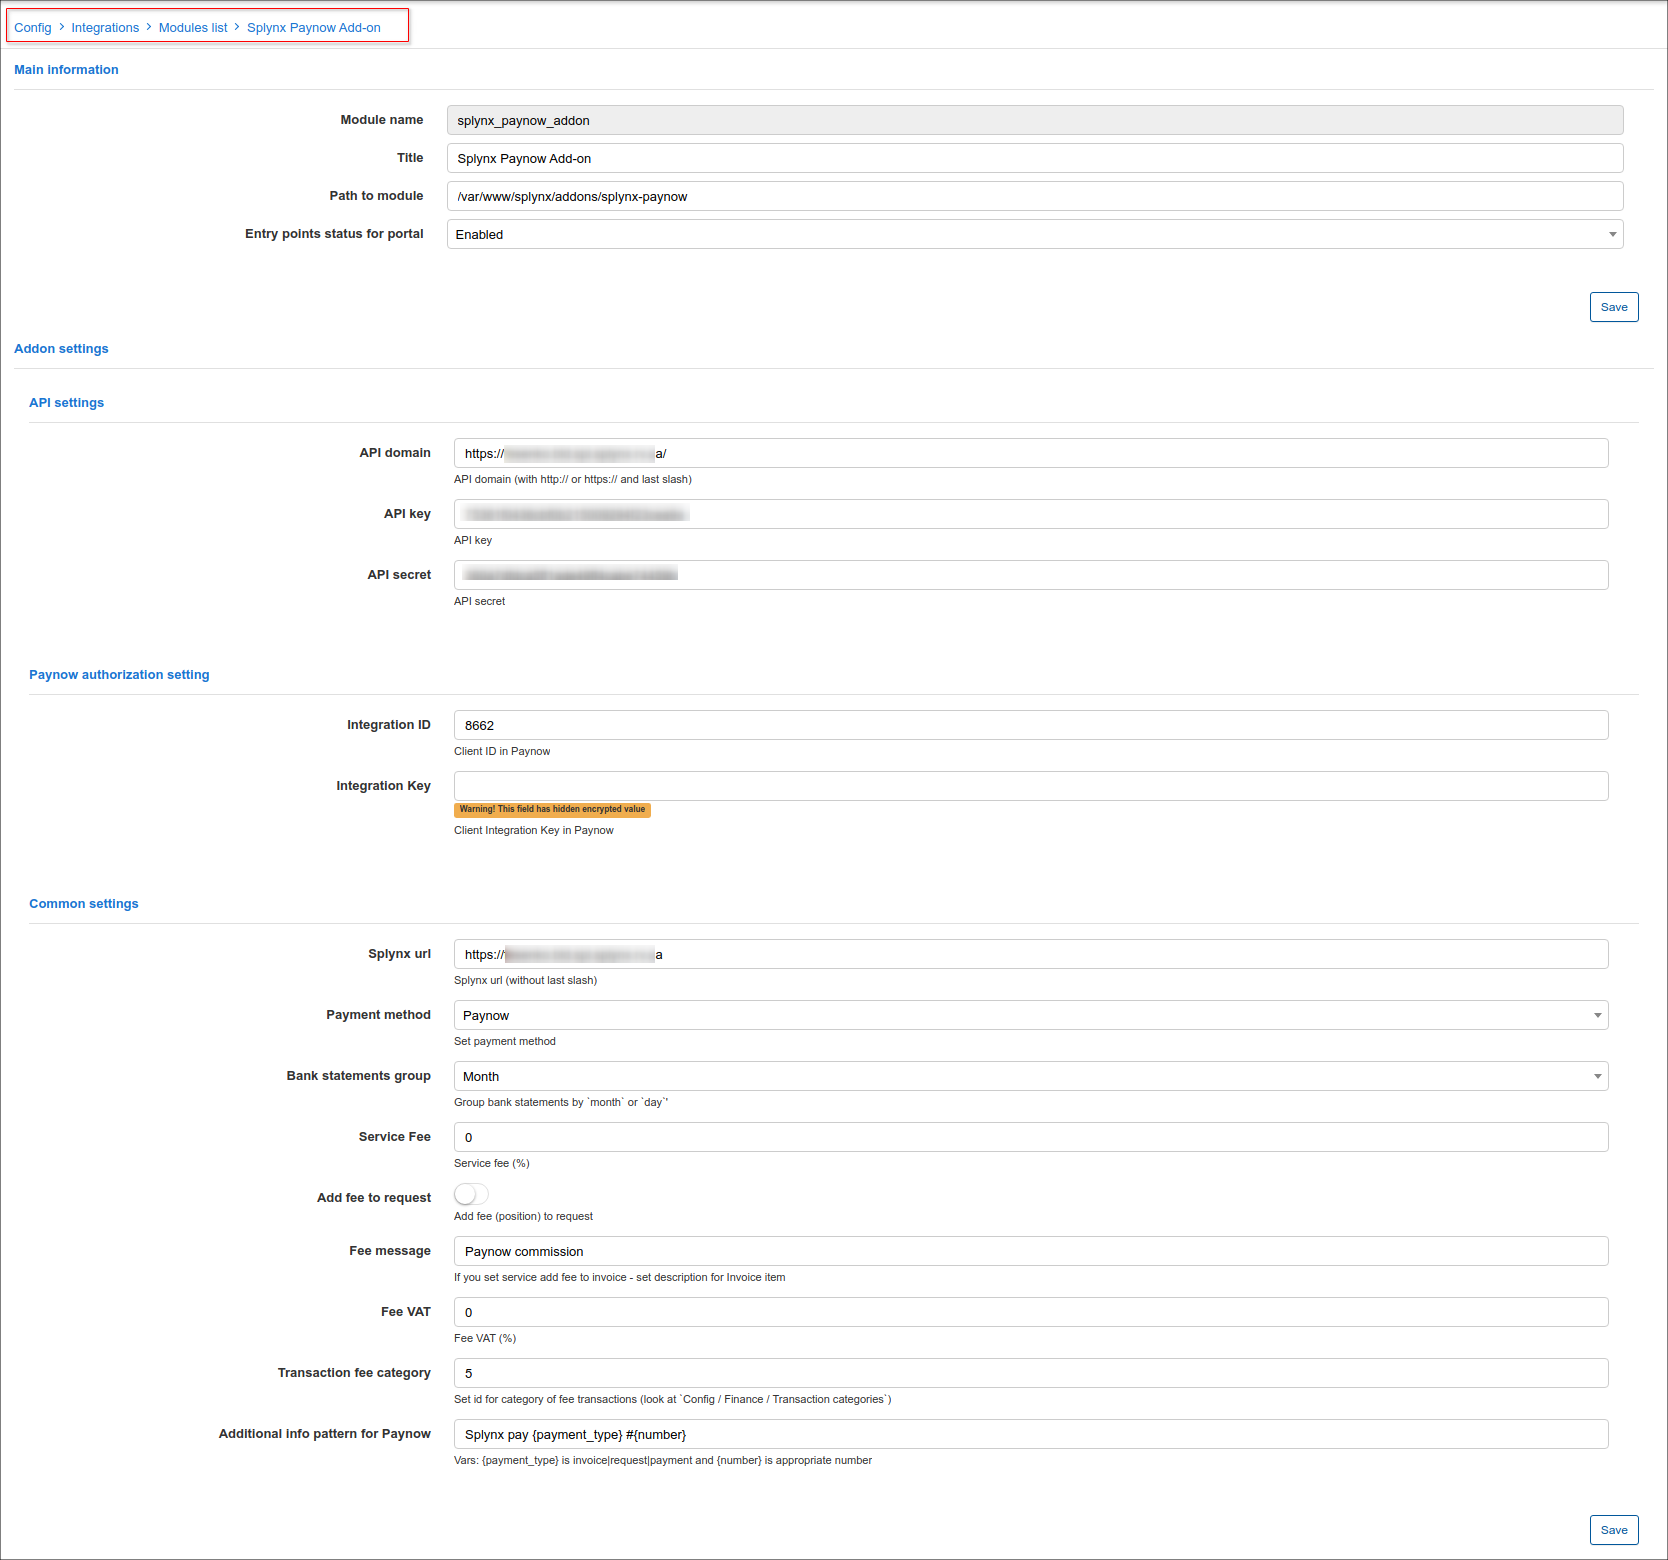
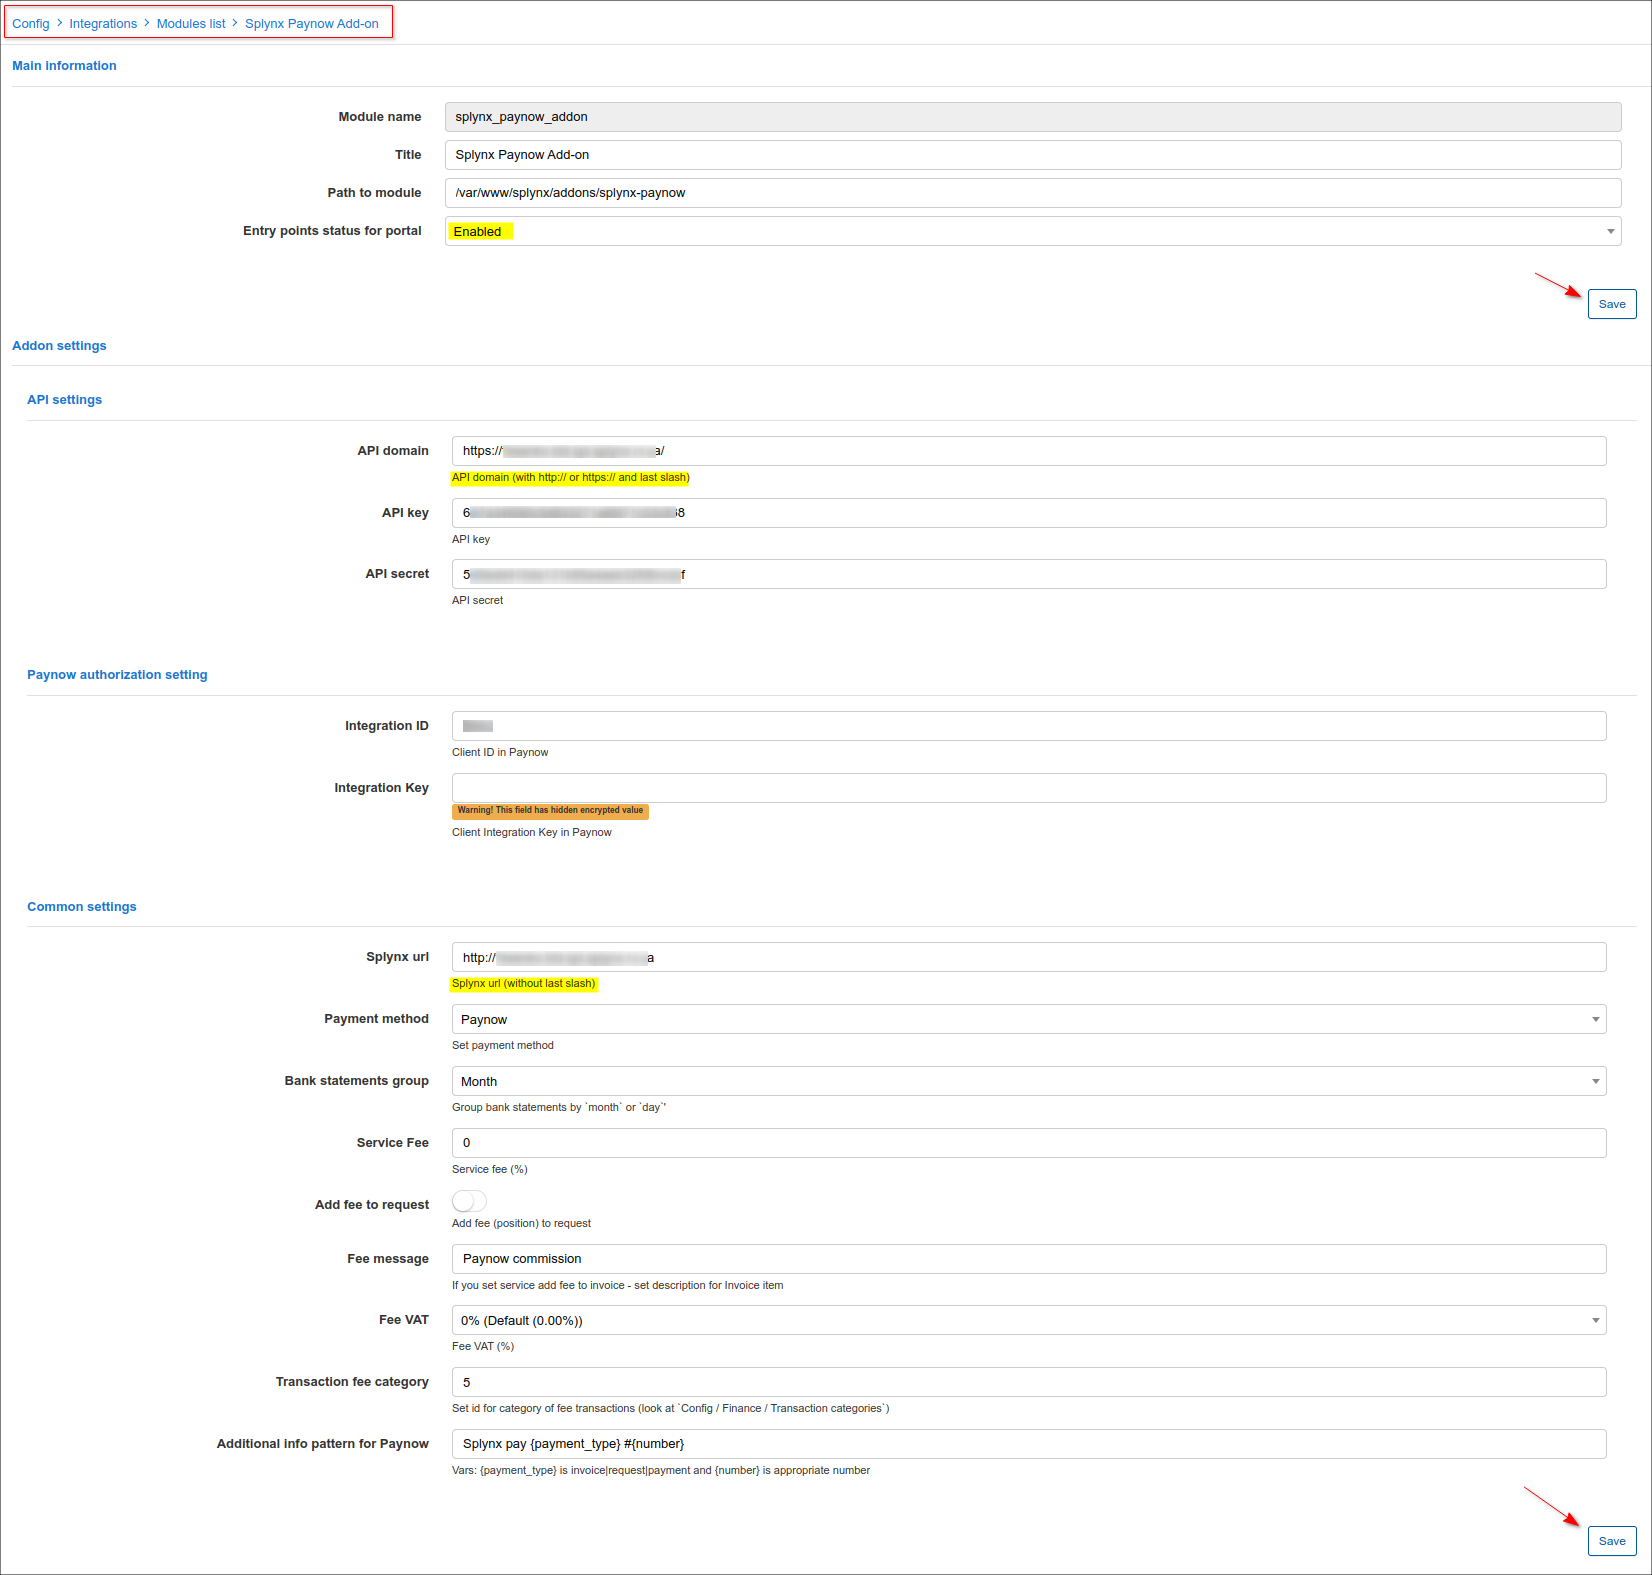
renew screens in PayNow doc, minor correction according SAPAYNOWZW-15

diff --git a/files/en/payment_systems/paynow/paynow.md b/files/en/payment_systems/paynow/paynow.md
@@ -29,29 +29,30 @@ Click on the **OK, confirm** button to begin the installation process:
 
 ### Paynow account
 
-To use the Splynx add-on, it is necessary to have a **Paynow 3rd party shopping cart**.
+To use the add-on in Splynx, it is necessary to have a **Paynow 3rd party shopping cart**.
 
 To create this cart the following steps need to be taken:
 
 1. Register your [Paynow account](https://www.paynow.co.zw);
 2. Log in;
-3. In the top menu, select `Receive Payments → Other Ways To Get Paid`  
+3. In the top menu, select `Receive Payments → Other Ways To Get Paid`;  
 
 ![(image)](Menu_060.png)
 
-4. Under **3rd Party Shopping Carts & Business Systems Integration** press the button **Create/Manage Shopping Carts**  
+4. Under **3rd Party Shopping Carts & Business Systems Integration** press the button **Create/Manage Shopping Carts**;  
 
 ![(image)](Selection_061.png)
 
-5. **Under Advanced Integration** press the button **Create Advanced Integration**  
+5. **Under Advanced Integration** press the button **Create Advanced Integration**;  
 
 ![(image)](Selection_062.png)
 
-6. Fill out the form and press **Save**
+6. Fill out the form and press the **Save** button;
 
 ![(image)](Selection_063.png)
 
-7. After you have pressed **Save**, the section **Integration Key** will appear. Copy the **Intergration ID** and paste it into Splynx. Press the **Email Key To** button. The email letter will be sent to the **Notification Email** address. Copy the **Integration Key** and paste it into Splynx.
+7. After pressing the **Save** button, the section **Integration Key** will appear. Copy the **Intergration ID** and paste the value into the related field on the add-on configuration page (`Config → Integrations → Modules list`, *Paynow authorization setting* section).
+Press the **Email Key To** button. The email letter will be sent to the **Notification Email** address. Copy the **Integration Key** value from the received letter and paste it into the related field on the add-on configuration page.
 
 ![(image)](Selection_064.png)
 
@@ -68,9 +69,13 @@ Locate or search for the `splynx_paynow_addon` add-on and click on the
 
 ![(image)](paynow_edit-module.png)
 
+Double check if the **Entry points status for portal** option is set to `Enabled`. Also check, if your Splynx domain address is correct in the **API domain** and **Splynx url** fields.
+
 ![(image)](paynow_config.png)
 
-The configuration of add-on **Entry points** can be found in `Config → Integrations → Modules list`, near the `splynx_paynow_addon` module item in *Actions* column, click on the <icon class="image-icon">![entry_point](entry_point.png)</icon> (*Edit entry points*) icon. More information about *Modules list* can be found [here](configuration/integrations/modules_list/modules_list.md).
+The configuration of add-on **Entry points** can be found in `Config → Integrations → Modules list`, near the `splynx_paynow_addon` module item in *Actions* column, click on the <icon class="image-icon">![entry_point](entry_point.png)</icon> (*Edit entry points*) icon.
+
+More information about *Modules list* can be found [here](configuration/integrations/modules_list/modules_list.md).
 
 By using **Entry points**, you can enable add-on features which can allow customers to pay for (proforma) invoices, pay directly from *Portal Dashboard* or add money to the balance from *Dashboard*.
 
@@ -78,35 +83,37 @@ By using **Entry points**, you can enable add-on features which can allow custom
 
 ### Invoice payment
 
-Once the configuration is completed, customers will see a new button and will be able to pay for their invoices via the *Paynow* system:
+Once the configuration is completed, customer will see a new button on the [Portal](customer_portal/customer_portal.md) and will be able to pay for their invoices via the *Paynow* system:
 
 ![(image)](10.png)
 
+A customer should click on the  *Paynow* form:
+
 ![(image)](11.png)
 
-Customer will be redirected to *Paynow* payment page, where they have to approve their payment:
+After that they will be redirected to *Paynow* payment page, where they have to approve the current payment:
 
 ![(image)](12.png)
 
 ![(image)](13.png)
 
-If everything goes well, you will see the status of invoice marked as `Paid` (on the customer and admin portal).
+If everything goes well, you will see the status of invoice marked as `Paid` (on the customer and admin portal). Click `Back to portal` link to go back on the customer *Portal*.
 
-On the customer *Portal Dashboard*, customers can also see the list of non-paid invoices in *Paynow* widget (entry point) and the same-name buttons to pay such invoices. Moreover, using the *Add money by Paynow* widget on the *Dashboard*
+On the customer *Portal Dashboard*, customers can also see the list of non-paid invoices in *Paynow* widget (provided by entry point) and the same-name buttons to pay such invoices. Moreover, using the *Add money by Paynow* widget on the *Dashboard*
 
 ![(image)](14.png)
 
-or the direct link *https://<splynx_domain_address>/paynow* the customer can refill the account balance.
+or the direct link ``` https://<splynx_domain_address>/paynow ``` the customer can refill the account balance.  
 
 ![(image)](15.png)
 
 ### Add-on log files
 
-*Paynow* add-on logs can be found in `Administration → Logs`:
+The *Paynow* add-on logs can be found in `Administration → Logs`:
 
 ![(image)](paynow_logs.png)
 
-In *Paynow Logs* the full payment statistic records can be viewed:
+In the *Paynow Logs* the full payment statistic records can be viewed:
 
 ![(image)](paynow_logs1.png)
 
